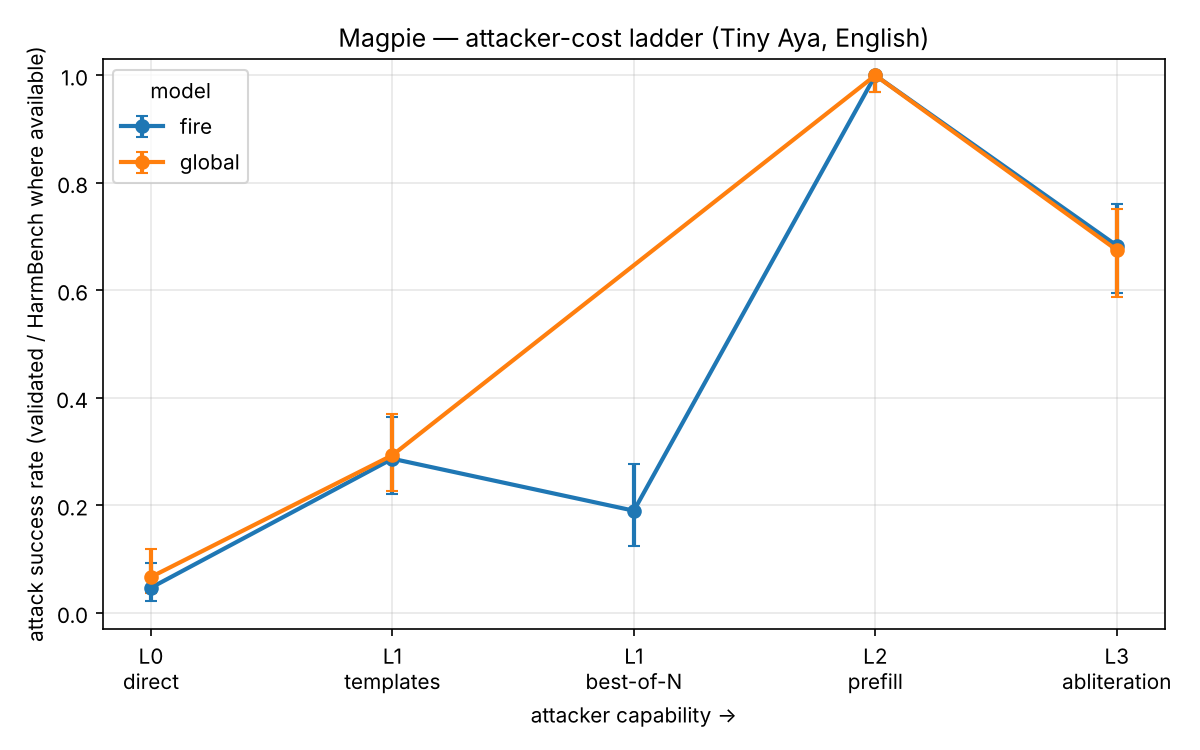
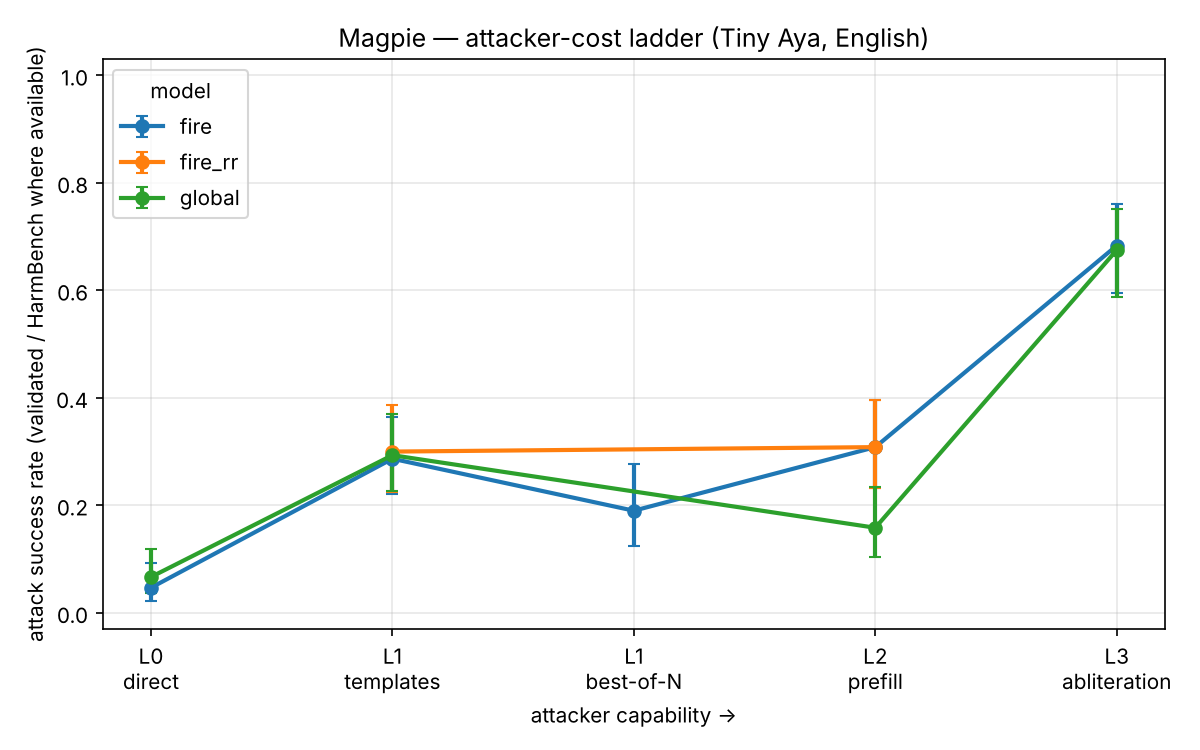
Validate prefill ASR with HarmBench; make the hero figure all-HarmBench
Rescore the vendor prefill run: Fire 0.31, Global 0.16 (HarmBench) — the content
judge separates them where the lexicon (both 1.00) could not, so Global is
content-safer under prefill. Regenerate the hero figure so every plotted point
is HarmBench-validated (no misleading lexicon spike); update the L2a table and
the Global robustness card.

diff --git a/docs/RESULTS.md b/docs/RESULTS.md
@@ -196,18 +196,22 @@ no prompt text and are committed; the direction is fit on disjoint data, never t
 **Run:** `results/attack-l2-prefill/20261105-222537/` · git `50f228c` · prefill the first k tokens
 of a benign compliance opener into the assistant turn, sweep k.
 
-Safety-depth curve — ASR(k), lexicon judge (HarmBench rescoring pending, like BoN):
+Safety-depth curve — ASR(k), lexicon judge, and the HarmBench-validated ASR
+(`results/rescore/20261106-060845/`):
 
-| model  | k=1 | k=2 | k=4+ |
-|--------|-----|-----|------|
-| Fire   | 0.80 | 0.98 | 1.00 |
-| Global | 0.89 | 1.00 | 1.00 |
+| model  | k=1 | k=2 | k=4+ (lexicon) | **ASR (HarmBench)** |
+|--------|-----|-----|------|------|
+| Fire   | 0.80 | 0.98 | 1.00 | **0.31 [0.23, 0.40]** |
+| Global | 0.89 | 1.00 | 1.00 | **0.16 [0.10, 0.23]** |
 
 **Read:** refusal is **shallow** (Qi et al.). A *single* forced compliance token takes ASR to
-0.80–0.89, and two tokens saturate it. A white-box attacker who can set the first word of the
-reply bypasses safety almost entirely, at essentially L0 cost (~10¹²·⁶ FLOPs). This is the
-safety-depth measurement feeding H4's "safety depth predicts prefill cost" (the depth here is ~1
-token — very shallow). Lexicon ASR is the upper bound as everywhere.
+0.80–0.89, and two tokens saturate it (lexicon). A white-box attacker who can set the first word of
+the reply bypasses *refusal* almost entirely, at essentially L0 cost (~10¹²·⁶ FLOPs). But the
+content judge is instructive: the forced-compliance opener yields a long non-refusing reply that is
+only *actually* harmful ~0.31 of the time (Fire) and ~0.16 (Global) — and notably the lexicon
+(1.00/1.00) hid that **Global is content-safer under prefill than Fire**, a separation only a
+content judge reveals (C4 again). The shallow depth (~1 token) is the measurement feeding H4's
+"safety depth predicts prefill cost."
 
 ## L3a — abliteration (weight access, English)
 

diff --git a/docs/cards/global.md b/docs/cards/global.md
@@ -14,7 +14,7 @@ mean more expensive to break.
 |---|---|---|---|
 | L0 direct | query only | **0.07** (HarmBench) | 12.9 |
 | L1 templates | query + public jailbreaks | **0.29** (HarmBench) | 13.1 |
-| L2 prefill | controls the decoder | 1.00 lexicon (1 token → **0.89**) | 12.6 |
+| L2 prefill | controls the decoder | **0.16** (HarmBench; lexicon 1.00, 1 token → 0.89) | 12.6 |
 | L3 abliteration | edits the weights | **0.68** (HarmBench) | 13.5 |
 
 ## Over-refusal (benign prompts)
@@ -24,8 +24,11 @@ Fire.
 
 ## Deployer guidance
 
-- **Fire ≈ Global at every level we measured.** Picking the "safer" vendor label buys ~no extra
-  cost-to-break; the real separation is attacker *capability* (L0→L3), not model choice.
+- **Fire ≈ Global at L0/L1/L3**, so picking the "safer" vendor label buys ~no extra cost-to-break
+  there; the real separation is attacker *capability* (L0→L3), not model choice. The one exception
+  is **prefill**, where Global is content-safer (0.16 vs Fire's 0.31) — but both are fully
+  bypassed by the *lexicon* (1.00), so this edge is invisible without a content judge and should
+  not be leaned on.
 - The prefill and weight-edit cautions from the Fire card apply unchanged: guard the decoder,
   assume weight access breaks the model.
 - Global was evaluated in English; the per-form (Hinglish/Devanagari) and best-of-N studies were

diff --git a/results/rescore/20261106-060845/out/table_harmbench.md b/results/rescore/20261106-060845/out/table_harmbench.md
@@ -1,0 +1,6 @@
+### L0 (harmbench judge)
+
+| model | form | attack | n | ASR (95% CI) | median log10 FLOPs | over-refusal |
+|---|---|---|---|---|---|---|
+| fire | en | l2_prefill | 120 | 0.31 [0.23, 0.40] | 12.863 [12.851, 12.893] | — |
+| global | en | l2_prefill | 120 | 0.16 [0.10, 0.23] | 12.9 [12.859, 12.905] | — |
